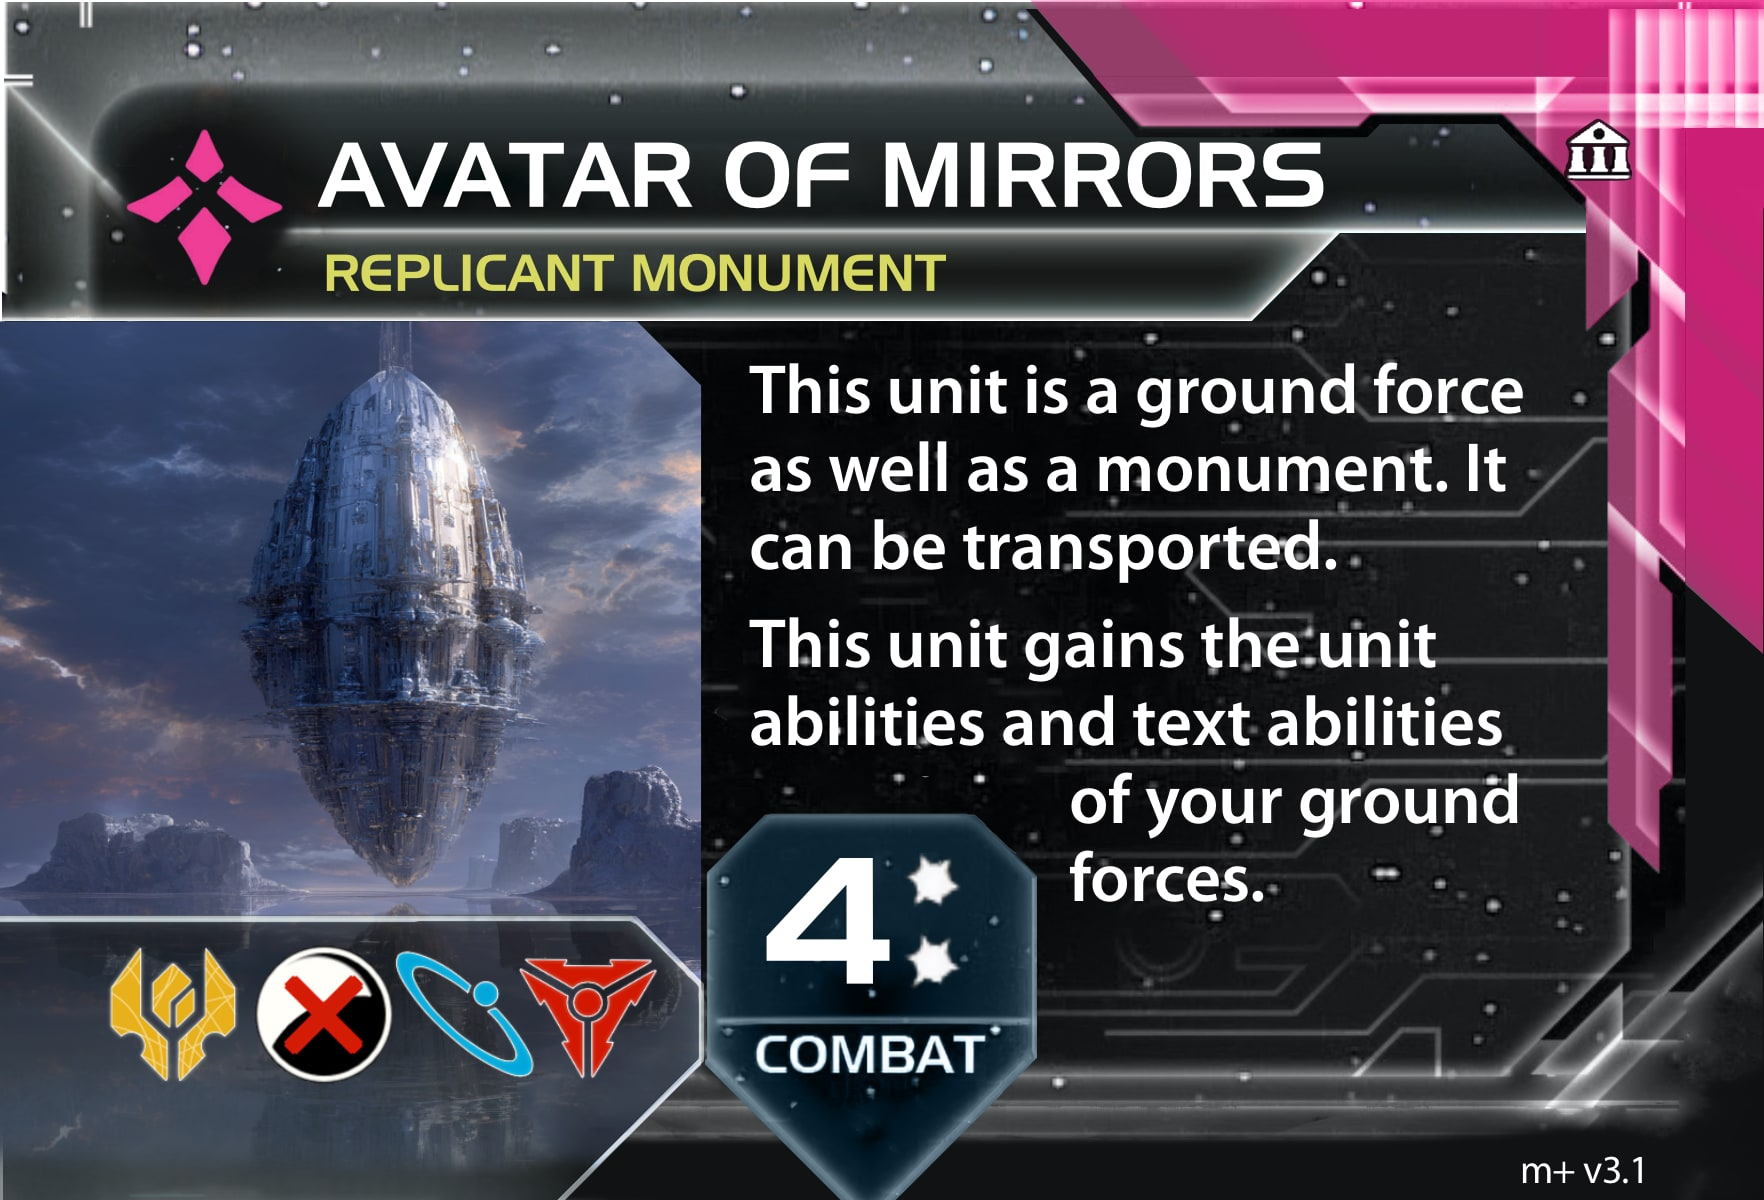
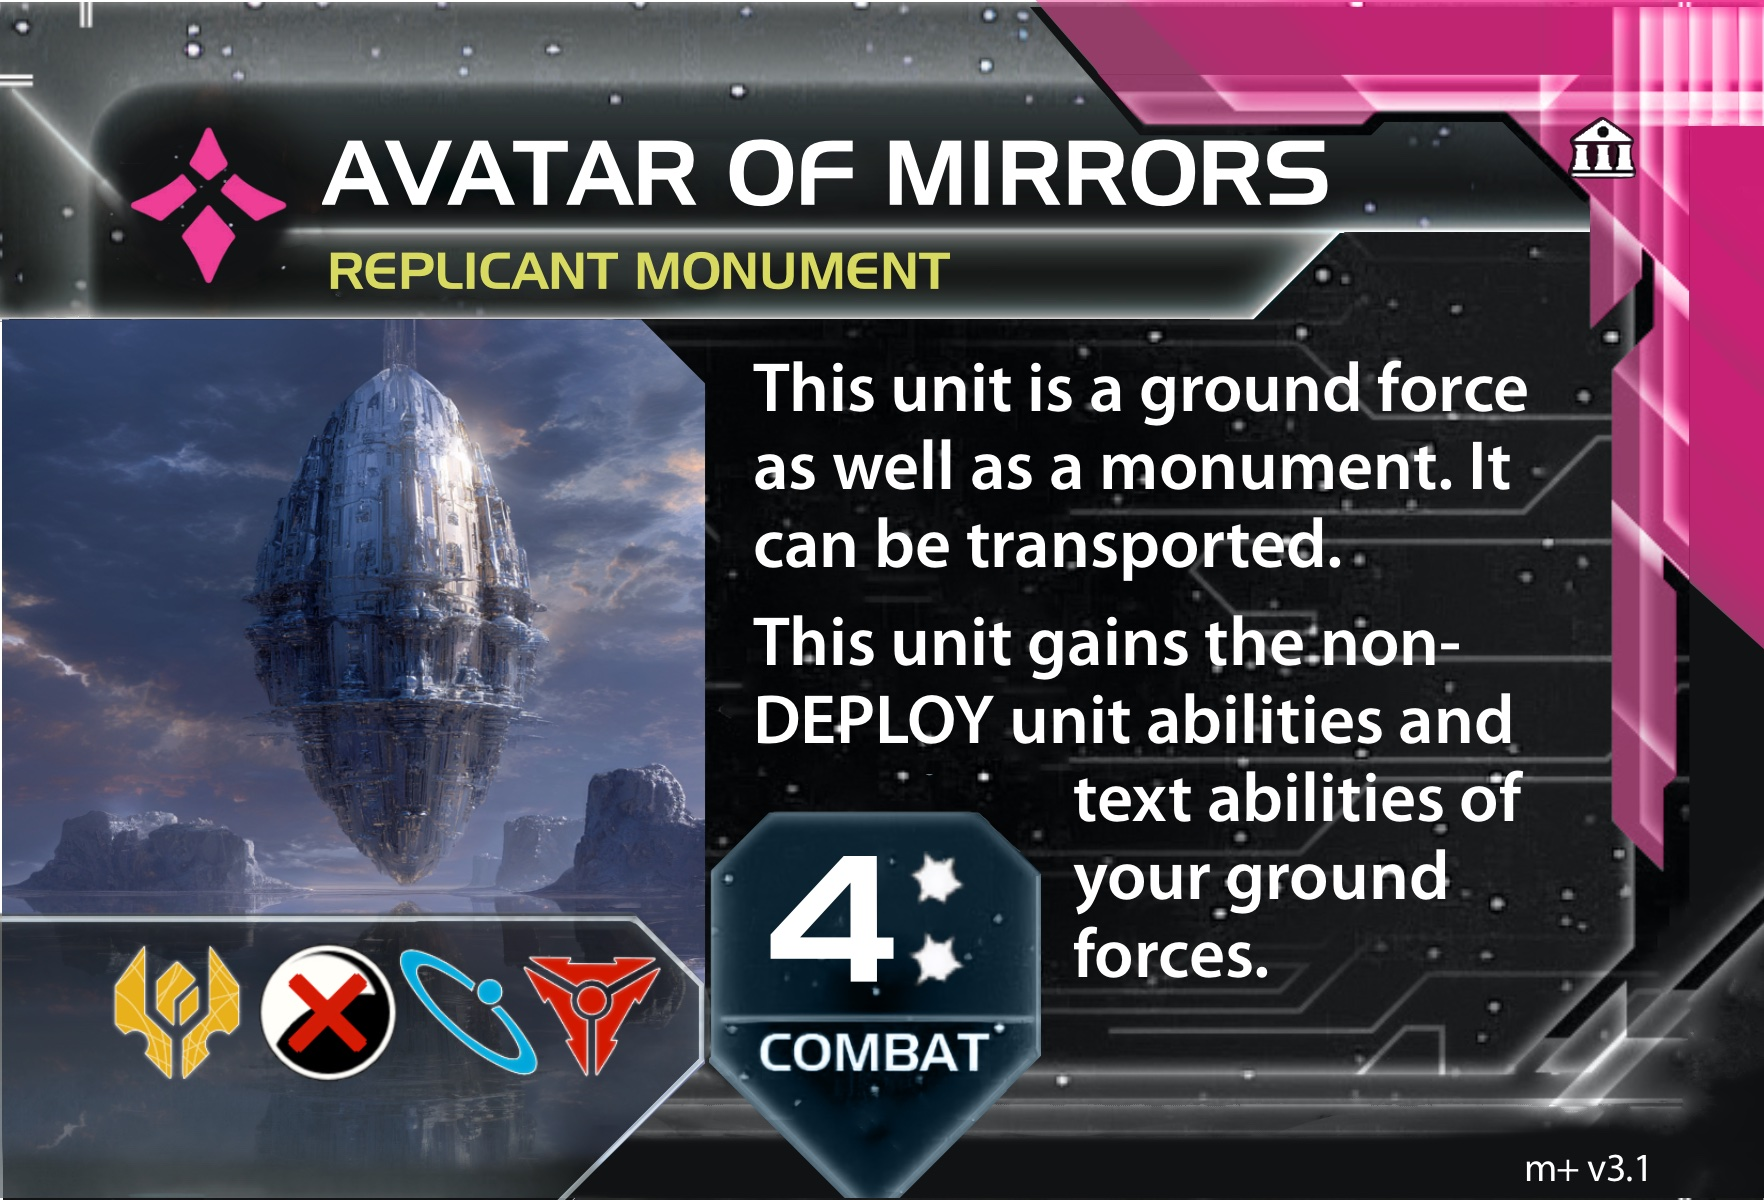
Fix hidden asset display, rename hidden class to excluded, mark hidden back images

diff --git a/expansions/editor/templates/editor.html b/expansions/editor/templates/editor.html
@@ -38,7 +38,7 @@
   .asset-cell { background: var(--panel); border: 1px solid var(--border); border-radius: 0.5rem; padding: 0.75rem; cursor: pointer; text-align: center; }
   .asset-cell:hover { border-color: var(--accent); }
   .asset-cell.configured { border-color: var(--accent); }
-  .asset-cell.hidden { opacity: 0.5; }
+  .asset-cell.excluded { opacity: 0.5; }
   .asset-cell .title { font-size: 0.85rem; font-weight: 500; overflow: hidden; text-overflow: ellipsis; white-space: nowrap; }
   .asset-cell .group { font-size: 0.75rem; color: var(--muted); overflow: hidden; text-overflow: ellipsis; white-space: nowrap; }
   .toolbar { display: flex; gap: 0.75rem; align-items: center; flex-wrap: wrap; margin-bottom: 0.75rem; }
@@ -493,7 +493,7 @@ function renderAssets() {
 
   list.forEach(asset => {
     const div = document.createElement('div');
-    div.className = `asset-cell ${asset.configured ? 'configured' : ''} ${asset.hidden ? 'hidden' : ''}`;
+    div.className = `asset-cell ${asset.configured ? 'configured' : ''} ${asset.hidden ? 'excluded' : ''}`;
     div.innerHTML = `
       <div class="title" title="${asset.path}">${asset.title}</div>
       <div class="group" title="${asset.group || asset.folder}">${asset.group || asset.folder}</div>
@@ -536,7 +536,7 @@ function populateBackOptions(path, currentBack, filterText) {
   currentBackOptions.forEach(a => {
     const option = document.createElement('option');
     option.value = a.path;
-    option.textContent = a.path;
+    option.textContent = a.hidden ? `${a.path} [hidden]` : a.path;
     backSelect.appendChild(option);
   });
   const stillAvailable = currentBack === '' || currentBackOptions.some(a => a.path === currentBack);